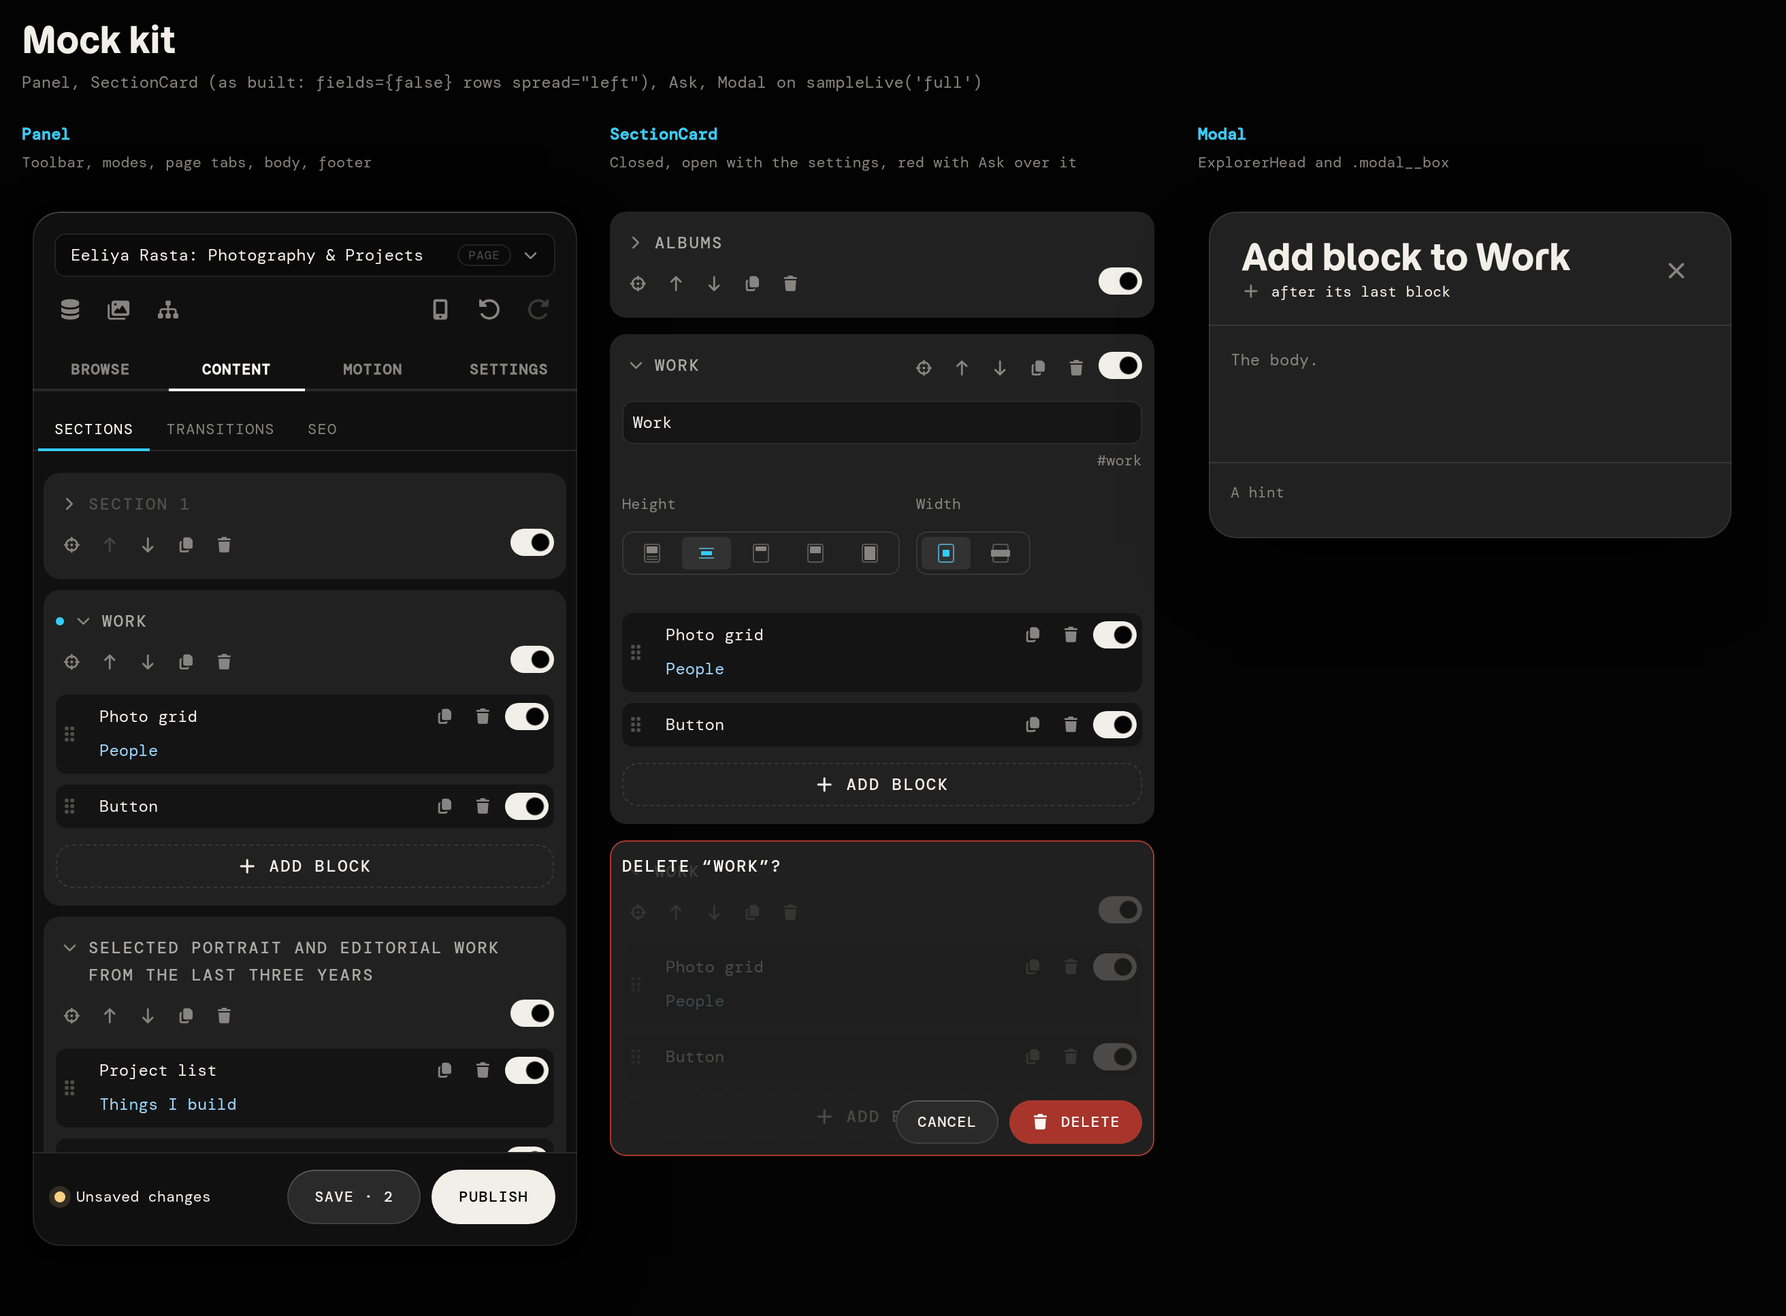
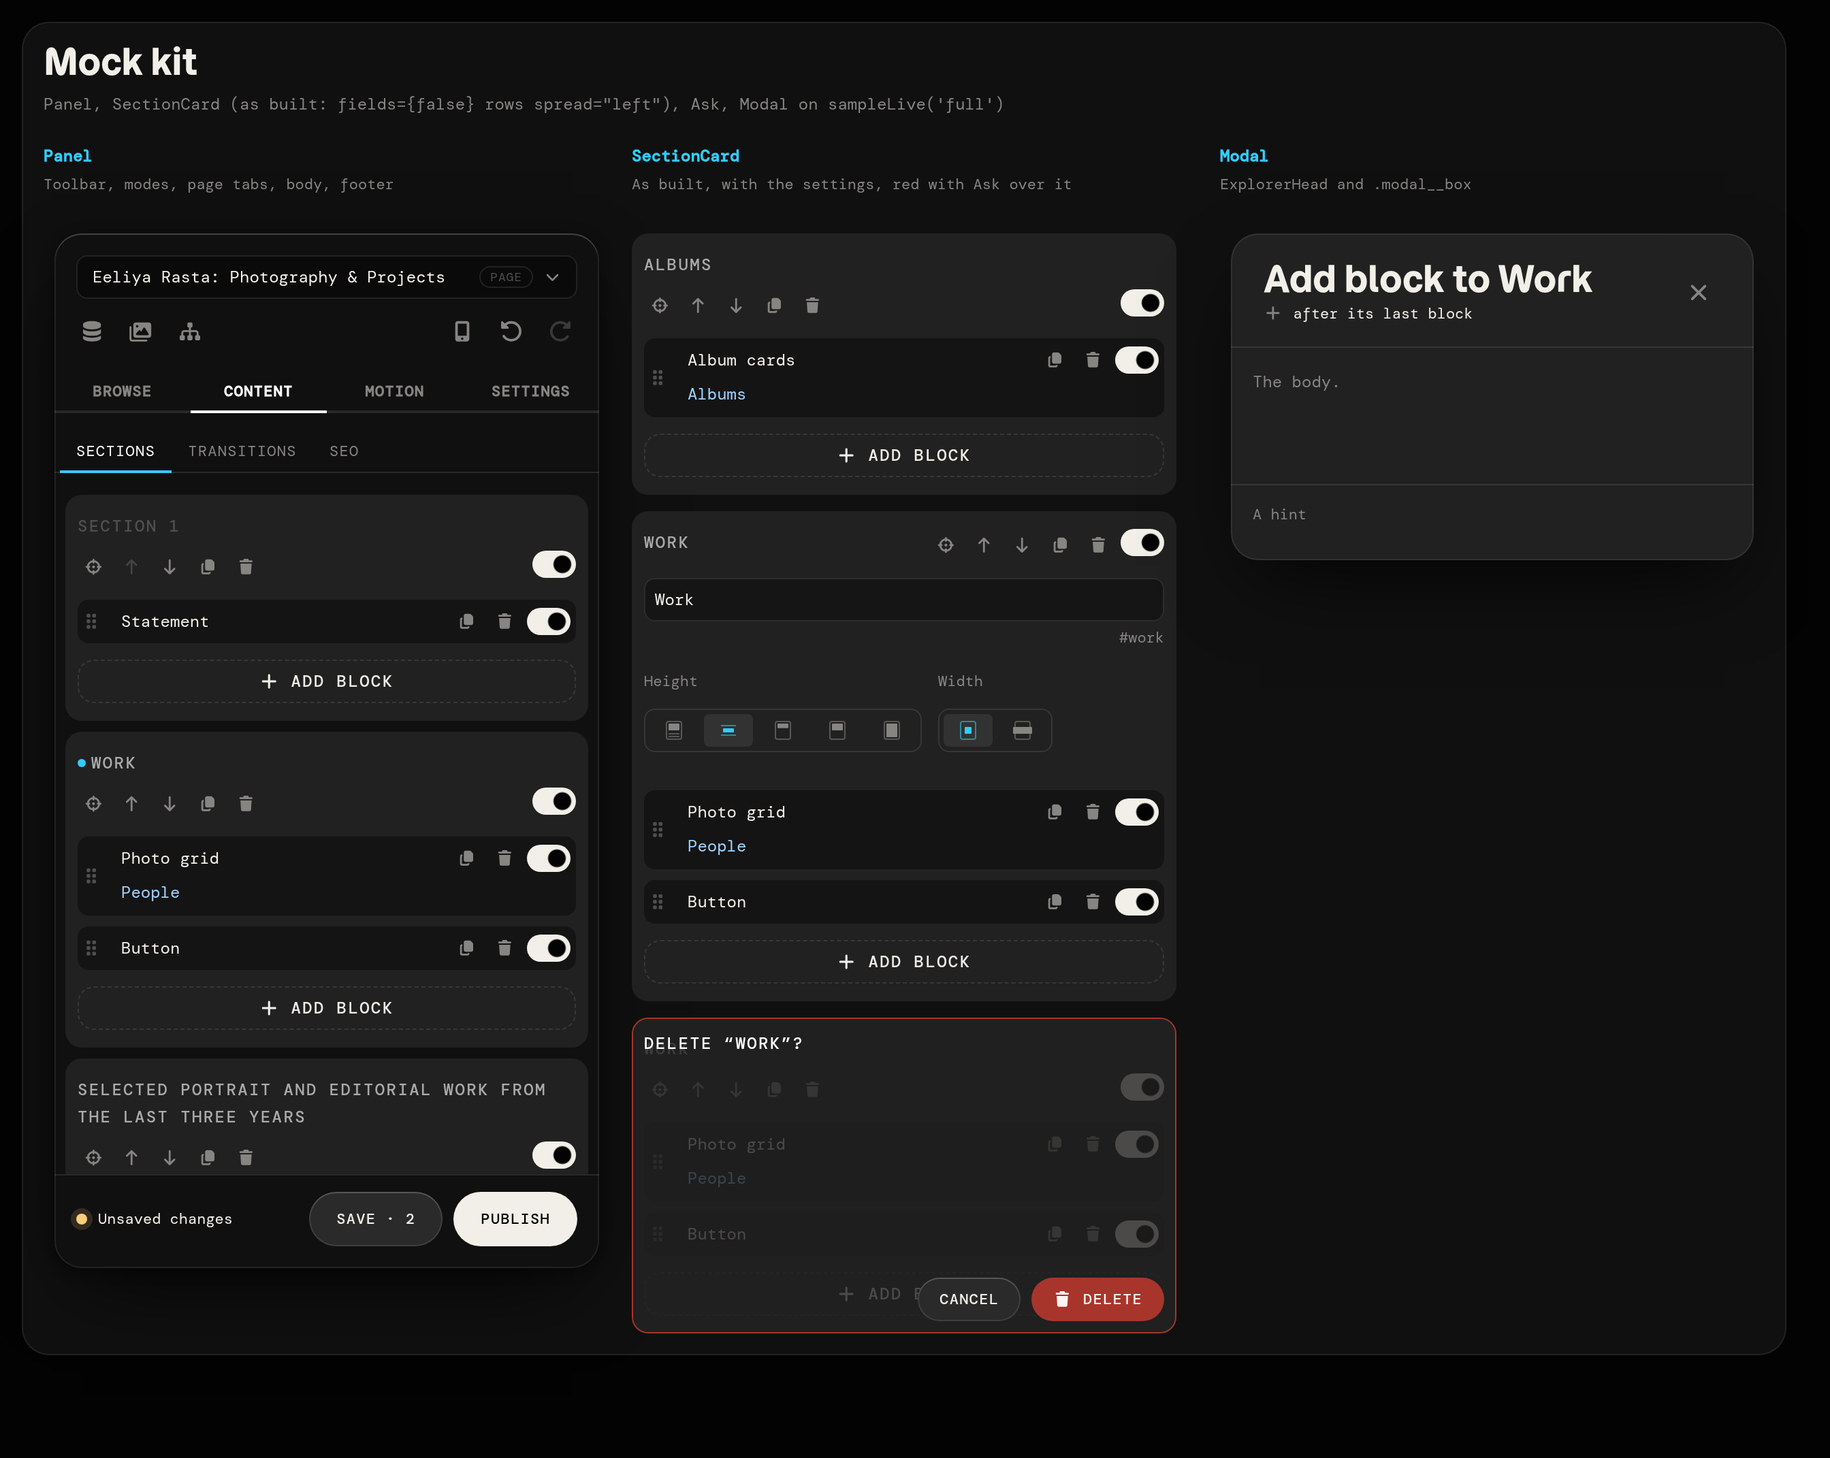
Mock kit: SectionCard always open as built (da933a3)
- SectionCard uses the real Section's onenter (no caret, no open/closed; the title a pointer button that goes nowhere) and its stack for rows; the open prop and the kit's own rows CSS (the caret's 18px indent) are gone, spread 'even' kept. The title keeps its brightness on hover (the app's white title hover left out of the kit).
- demo.svelte, MOCKUP-PROTOCOL.md and the kit README: no open/closed.
- docs/*.png regenerated (npm run mock): kit-demo, section-card-states (open / changed, empty), section-card-delete (one column, red + Ask), template-mock.

diff --git a/sandbox/kit/SectionCard.svelte b/sandbox/kit/SectionCard.svelte
@@ -2,18 +2,21 @@
   A page section's card as the Content tab draws it: the real Section, its real SectionSettings
   (on the sample live state), its blocks (BlockCard) and the dashed Add block.
     live    sampleLive() (one per mock)         at     its index in the sample page
-    open    open or closed (default true)       red    the card's own border red (no size change)
+  Always open, as built (dae1ba8): the real Section's onenter (no caret, the title a button with
+  the pointer; here it goes nowhere). Its hover keeps the title's brightness (the app's white
+  title hover is left out on purpose).
+    red     the card's own border red (no size change)
     tools   snippet: replaces the bar's tools (Show, up, down, Duplicate, Delete, switch)
     over    snippet: drawn over the card, its exact box (a confirm, a scrim…); `.kit-over`
             covers the whole card, add `.kit-over--bar` for the header's height only
     children  replaces the body (SectionSettings)
     fields  false: no settings body (a part's section: just the header and blocks)
-    rows    the tools on their own row under the title (the title wraps, full width)
+    rows    the tools on their own row under the title (the title wraps, full width): the
+            real Section's `stack`, tools from the left edge, the switch at the right
     height  a fixed height for the card (e.g. '140px' while confirming), its content clipped
     changed the changed dot before the title
     line    false: no line between the settings and the blocks (its space kept)
-    spread  with rows: the tools row 'left' (icons from the left edge, the switch at the right)
-            or 'even' (spread evenly across the card); default: under the title's text
+    spread  with rows: 'even' spreads the tools evenly across the card ('left' or '': as built)
 -->
 <script>
   import Section from '../../src/editor/svelte/Section.svelte';
@@ -26,7 +29,6 @@
   let {
     live,
     at = 0,
-    open = true,
     red = false,
     fields = true,
     rows = false,
@@ -48,15 +50,14 @@
     LIST,
     'kit-card',
     red && 'kit-card--red',
-    rows && 'kit-card--rows',
     height && 'kit-card--fixed',
     !line && 'kit-card--noline',
     !fields && !children && 'kit-card--nofields',
-    spread && `kit-card--${spread}`,
+    rows && spread === 'even' && 'kit-card--even',
   ]}
   style:--card-h={height || null}
 >
-  <Section id={s.id} {title} dim={!s.name?.trim()} {open} {changed}>
+  <Section id={s.id} {title} dim={!s.name?.trim()} {changed} stack={rows} onenter={() => {}}>
     {#snippet bar()}
       {#if tools}{@render tools()}{:else}
         <Button size="small" icon="crosshairs" iconOnly label="Show in preview" />
@@ -122,24 +123,14 @@
     height: 46px;
   }
 
-  // the tools on their own row: the title takes the whole first row (and wraps); the tools
-  // start under the title's text (the caret's 20px + 4px in), the switch at the right
-  .kit-card--rows > :global(.sec > .sec__bar) {
-    flex-wrap: wrap;
-    row-gap: var(--space-2);
+  // the title keeps its brightness on hover (not the app's white): its bar's colour, a default
+  // title its faint one
+  .kit-card > :global(.sec > .sec__bar > .sec__toggle.sec__toggle--enter:hover),
+  .kit-card > :global(.sec > .sec__bar > .sec__toggle.sec__toggle--enter:hover > span) {
+    color: inherit;
   }
-  .kit-card--rows > :global(.sec > .sec__bar > .sec__toggle) {
-    flex: 1 0 100%;
-  }
-  // with the changed dot first: the title takes the rest of the first row
-  .kit-card--rows > :global(.sec.is-changed > .sec__bar > .sec__toggle) {
-    flex-basis: calc(100% - var(--size-changed) - var(--space-1));
-  }
-  .kit-card--rows > :global(.sec > .sec__bar > .sec__toggle + *) {
-    margin-left: 18px;
-  }
-  .kit-card--rows > :global(.sec > .sec__bar > :last-child) {
-    margin-left: auto;
+  .kit-card > :global(.sec > .sec__bar > .sec__toggle.sec__toggle--enter:hover > .sec__title--dim) {
+    color: var(--c-text-faint);
   }
 
   // a fixed height (a confirm): the card keeps it, its content clipped under the overlay
@@ -148,15 +139,11 @@
     overflow: hidden;
   }
 
-  // the tools row full width: from the card's left edge, or spread evenly
-  .kit-card--left > :global(.sec > .sec__bar > .sec__toggle + *),
-  .kit-card--even > :global(.sec > .sec__bar > .sec__toggle + *) {
-    margin-left: 0;
-  }
+  // the tools row spread evenly
   .kit-card--even > :global(.sec > .sec__bar) {
     justify-content: space-between;
   }
-  .kit-card--even > :global(.sec > .sec__bar > :last-child) {
+  .kit-card--even > :global(.sec.sec--stack > .sec__bar > :last-child:not(.sec__toggle)) {
     margin-left: 0;
   }
 

diff --git a/sandbox/kit/demo.svelte b/sandbox/kit/demo.svelte
@@ -11,13 +11,13 @@
 >
   <Variant label="Panel" note="Toolbar, modes, page tabs, body, footer">
     <Panel height="760px" changes={2}>
-      <SectionCard {live} at={0} fields={false} rows spread="left" open={false} />
+      <SectionCard {live} at={0} fields={false} rows spread="left" />
       <SectionCard {live} at={1} fields={false} rows spread="left" changed />
       <SectionCard {live} at={3} fields={false} rows spread="left" />
     </Panel>
   </Variant>
-  <Variant label="SectionCard" note="Closed, open with the settings, red with Ask over it">
-    <SectionCard {live} at={2} fields={false} rows spread="left" open={false} />
+  <Variant label="SectionCard" note="As built, with the settings, red with Ask over it">
+    <SectionCard {live} at={2} fields={false} rows spread="left" />
     <SectionCard {live} at={1} />
     <SectionCard {live} at={1} fields={false} rows spread="left" red>
       {#snippet over()}<Ask question="Delete “Work”?" />{/snippet}

diff --git a/sandbox/MOCKUP-PROTOCOL.md b/sandbox/MOCKUP-PROTOCOL.md
@@ -103,22 +103,24 @@ Tabs, ExplorerHead, …). `{live}` is required wherever listed.
 
 **SectionCard** — a page section's card (real `Section` + `SectionSettings`, its blocks, + Add block).
 
-| prop       | type                     | default  | meaning                                                                                                                            |
-| ---------- | ------------------------ | -------- | ---------------------------------------------------------------------------------------------------------------------------------- |
-| `live`     | sampleLive()             | required | the page state (one per mock, shared by the cards)                                                                                 |
-| `at`       | number                   | `0`      | the section's index in that page                                                                                                   |
-| `open`     | bool                     | `true`   | open or closed                                                                                                                     |
-| `fields`   | bool                     | `true`   | `false`: no settings body (**the list as built**)                                                                                  |
-| `rows`     | bool                     | `false`  | title on its own row (wraps), tools on a second row                                                                                |
-| `spread`   | `''`\|`'left'`\|`'even'` | `''`     | with `rows`: tools from the left edge, switch at the right (`left`, **as built**), or spread evenly; `''` = under the title's text |
-| `line`     | bool                     | `true`   | `false`: no line above the blocks (space kept)                                                                                     |
-| `changed`  | bool                     | `false`  | the 6px accent dot before the title                                                                                                |
-| `red`      | bool                     | `false`  | border red (no size change) — use with a delete confirm                                                                            |
-| `height`   | CSS length               | `''`     | fix the card's height, content clipped                                                                                             |
-| `tools`    | snippet                  | —        | replaces the bar's tools (Show, ↑, ↓, Duplicate, Delete, switch)                                                                   |
-| `over`     | snippet                  | —        | drawn over the card at its exact box; give the root `class="kit-over"` (whole card) + `kit-over--bar` (header only)                |
-| `children` | snippet                  | —        | replaces the settings body                                                                                                         |
+| prop       | type                     | default  | meaning                                                                                                             |
+| ---------- | ------------------------ | -------- | ------------------------------------------------------------------------------------------------------------------- |
+| `live`     | sampleLive()             | required | the page state (one per mock, shared by the cards)                                                                  |
+| `at`       | number                   | `0`      | the section's index in that page                                                                                    |
+| `fields`   | bool                     | `true`   | `false`: no settings body (**the list as built**)                                                                   |
+| `rows`     | bool                     | `false`  | title on its own row (wraps), tools on a second row (the real Section's `stack`)                                    |
+| `spread`   | `''`\|`'left'`\|`'even'` | `''`     | with `rows`: `even` spreads the tools evenly; `''` / `left`: from the left edge, switch at the right (**as built**) |
+| `line`     | bool                     | `true`   | `false`: no line above the blocks (space kept)                                                                      |
+| `changed`  | bool                     | `false`  | the 6px accent dot before the title                                                                                 |
+| `red`      | bool                     | `false`  | border red (no size change) — use with a delete confirm                                                             |
+| `height`   | CSS length               | `''`     | fix the card's height, content clipped                                                                              |
+| `tools`    | snippet                  | —        | replaces the bar's tools (Show, ↑, ↓, Duplicate, Delete, switch)                                                    |
+| `over`     | snippet                  | —        | drawn over the card at its exact box; give the root `class="kit-over"` (whole card) + `kit-over--bar` (header only) |
+| `children` | snippet                  | —        | replaces the settings body                                                                                          |
 
+Always open, as built (dae1ba8): the real Section's `onenter`, so no caret and no open/closed;
+the title is a button (pointer) that opens the section in the app (in a mock it does nothing).
+In the kit its hover keeps the title's brightness (the app's white title hover is left out).
 Title: the section's `name`, else "Section N" dimmed. The switch reflects `enabled !== false`;
 ↑/↓ disable at the first/last section.
 
@@ -188,7 +190,7 @@ Own data: `sampleLive([{ id: 's-1', name: 'Work', enabled: false, blocks: [block
 - Each mock compares **2+ variants side by side**; the current version is labelled **"(current)"**.
 - Name: `<area>-<topic>.svelte` (e.g. `section-cards-noline`); first line a one-line
   `<!-- mock: what it compares -->` comment.
-- Show realistic cases: unnamed, short and very long names, open and closed (the sample pages have them).
+- Show realistic cases: unnamed, short and very long names, changed, empty (the sample pages have them).
 
 ### The current section card (decided, built in f214d8a)
 
@@ -196,6 +198,9 @@ Own data: `sampleLive([{ id: 's-1', name: 'Work', enabled: false, blocks: [block
 
 - No settings fields in the list's cards; title on row 1, tools on row 2 (Show, ↑, ↓,
   Duplicate, Delete from the left, the switch at the right); a line above the blocks.
+- Always open (dae1ba8): no caret; a click on the title (pointer, white on hover) opens the
+  section: its first block's view, or an empty section's own view. Hovered, the card's border
+  turns soft white (70%) and its section is outlined in the preview (be67424).
 - Changed: a 6px `#33ccff` dot before the title, no shift.
 - Delete confirm (`red` + `Ask` in `over`): over the card at its size, the card's colour at 80%
   dims it, red border, the question at the top (no background of its own), Cancel / Delete

diff --git a/sandbox/kit/README.md b/sandbox/kit/README.md
@@ -6,16 +6,16 @@ where the app's markup lives inside a component (App's toolbar and footer, Secti
 block rows), that component's own styles, read from its source and compiled in the browser
 (`styles.js`). Nothing is copied, so the kit follows the app.
 
-| Piece                                       | What it draws                                                                                                                                                                                                 |
-| ------------------------------------------- | ------------------------------------------------------------------------------------------------------------------------------------------------------------------------------------------------------------- |
-| `Panel`                                     | the side panel: page menu, tools row, mode tabs, page tabs, scroll body, Save / Publish (`mode`, `tab`, `tabs`, `height`, `changes`)                                                                          |
-| `SectionCard`                               | a section card on the sample page: real Section + SectionSettings, its blocks, Add block (`at`, `open`, `red`, `fields`, `rows`, `height`, `changed`, `line`, `spread`, snippets `tools`, `over`, `children`) |
-| `Ask`                                       | the section delete confirm as built, for SectionCard's `over` with `red` (`question`)                                                                                                                         |
-| `BlockCard`                                 | a block's row (`block`, snippet `tools`)                                                                                                                                                                      |
-| `Modal`                                     | a modal shell in place: `.modal__box` + ExplorerHead, body, `foot` snippet                                                                                                                                    |
-| `Compare` / `Variant`                       | a title and labelled variants side by side (`cols`, `width`; `label`, `note`)                                                                                                                                 |
-| `sampleLive()`, `SECTIONS`, `PAGES`, `FILE` | sample data: a six-section page in a real store / live state                                                                                                                                                  |
-| `samplePage`, `block`                       | ready-made pages `short`, `full`, `states`: `sampleLive('full')` (indices in `sample.js`, `../MOCKUP-PROTOCOL.md`)                                                                                            |
+| Piece                                       | What it draws                                                                                                                                                                                                               |
+| ------------------------------------------- | --------------------------------------------------------------------------------------------------------------------------------------------------------------------------------------------------------------------------- |
+| `Panel`                                     | the side panel: page menu, tools row, mode tabs, page tabs, scroll body, Save / Publish (`mode`, `tab`, `tabs`, `height`, `changes`)                                                                                        |
+| `SectionCard`                               | a section card on the sample page: real Section + SectionSettings, its blocks, Add block (always open as built; `at`, `red`, `fields`, `rows`, `height`, `changed`, `line`, `spread`, snippets `tools`, `over`, `children`) |
+| `Ask`                                       | the section delete confirm as built, for SectionCard's `over` with `red` (`question`)                                                                                                                                       |
+| `BlockCard`                                 | a block's row (`block`, snippet `tools`)                                                                                                                                                                                    |
+| `Modal`                                     | a modal shell in place: `.modal__box` + ExplorerHead, body, `foot` snippet                                                                                                                                                  |
+| `Compare` / `Variant`                       | a title and labelled variants side by side (`cols`, `width`; `label`, `note`)                                                                                                                                               |
+| `sampleLive()`, `SECTIONS`, `PAGES`, `FILE` | sample data: a six-section page in a real store / live state                                                                                                                                                                |
+| `samplePage`, `block`                       | ready-made pages `short`, `full`, `states`: `sampleLive('full')` (indices in `sample.js`, `../MOCKUP-PROTOCOL.md`)                                                                                                          |
 
 ## Example
 
